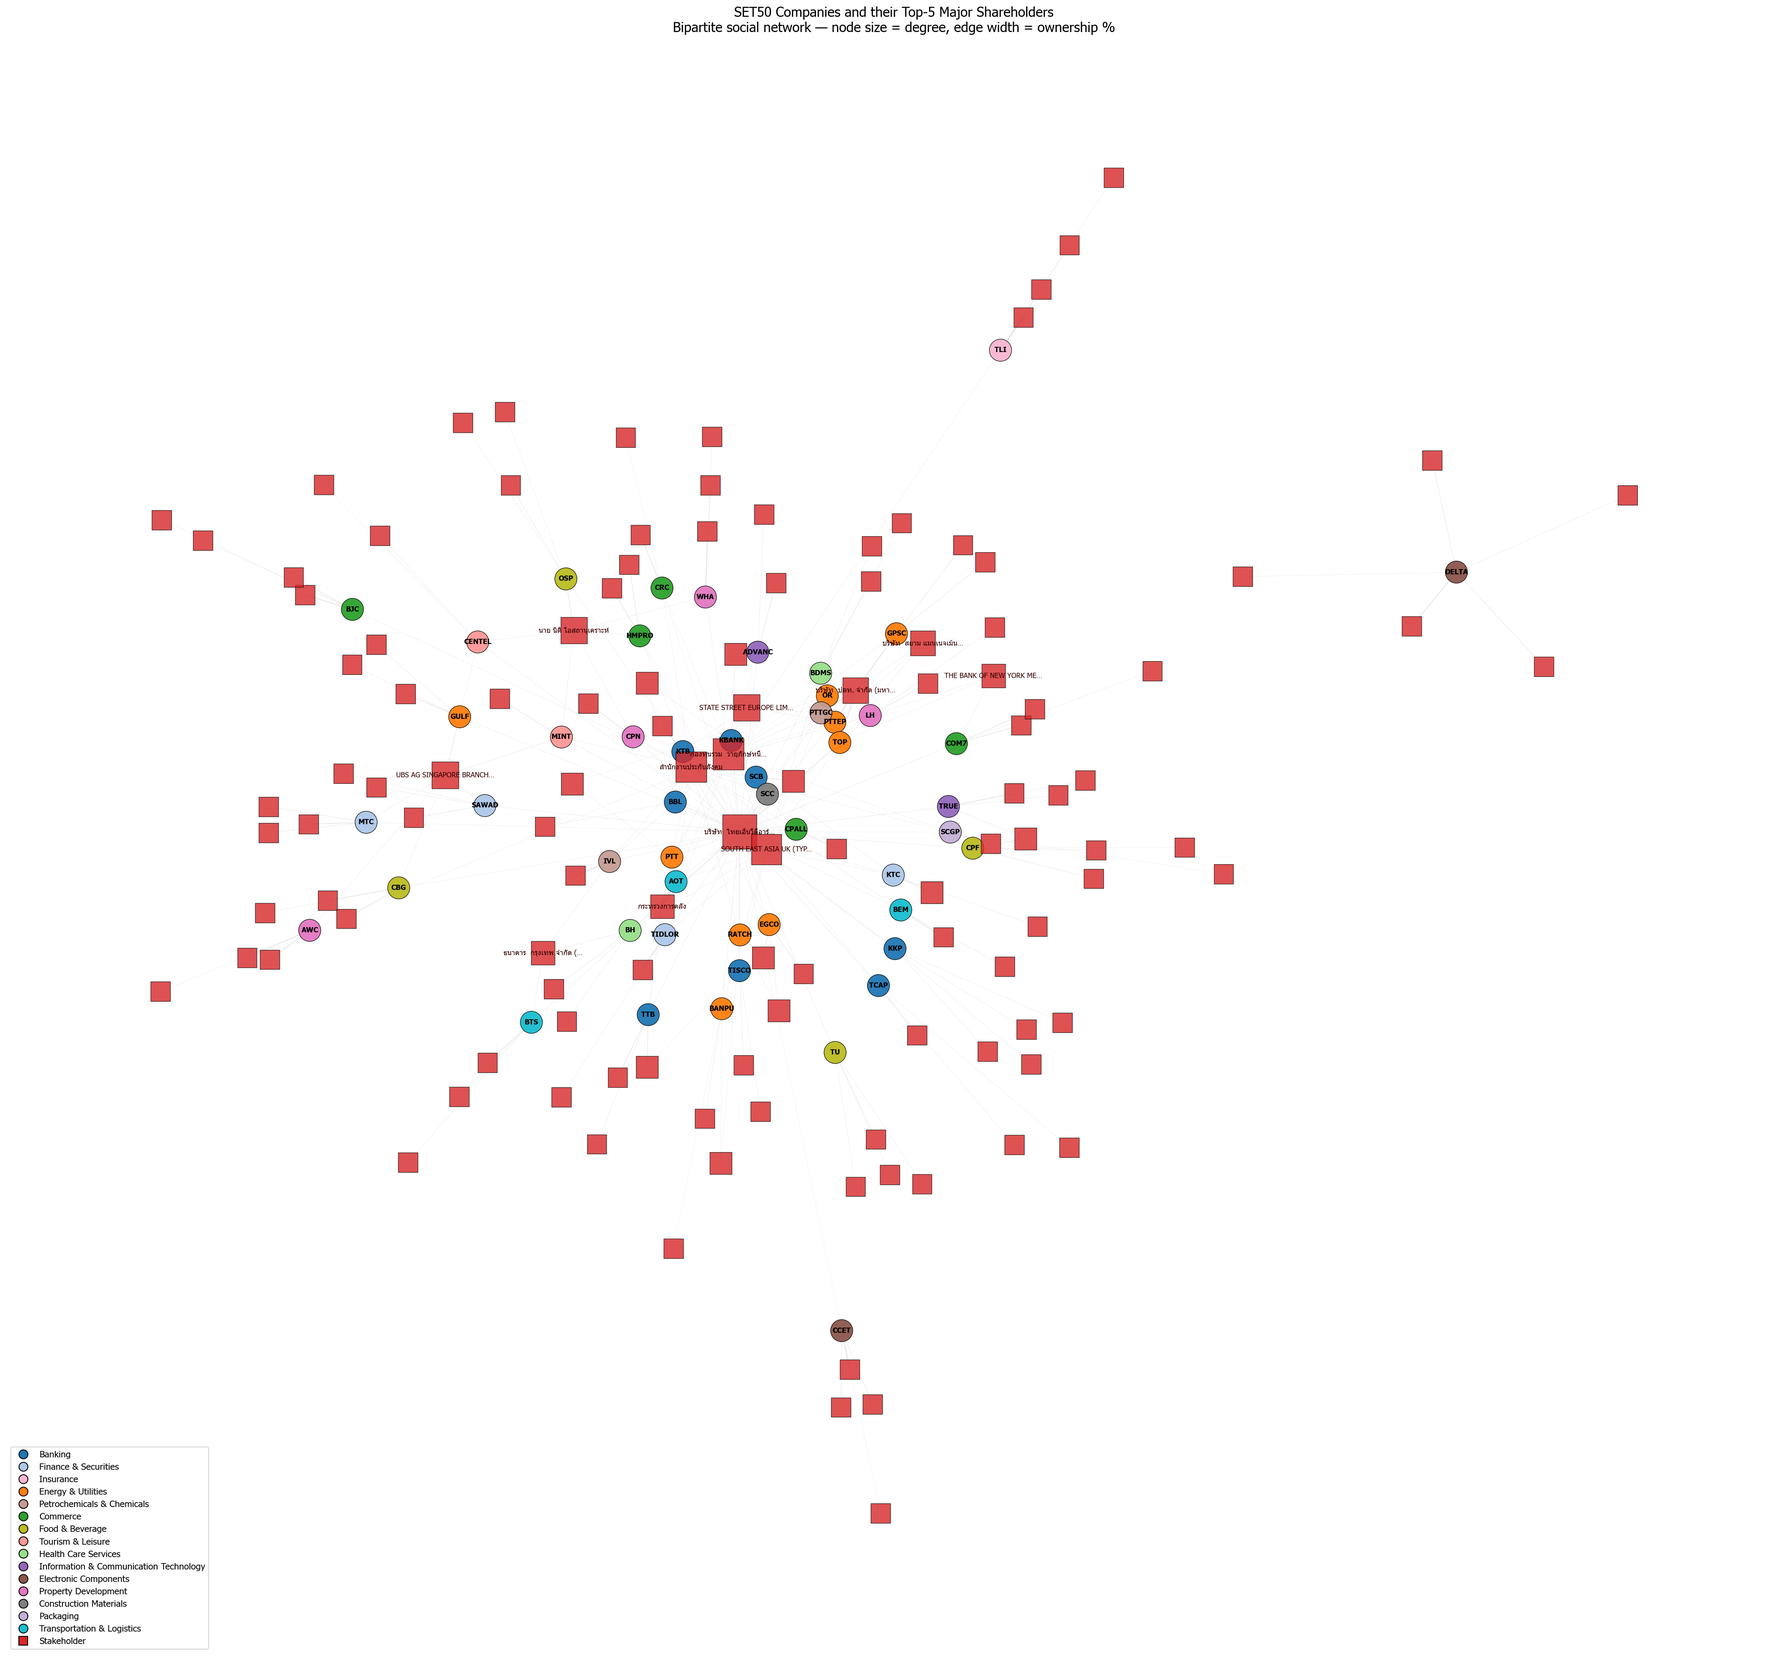
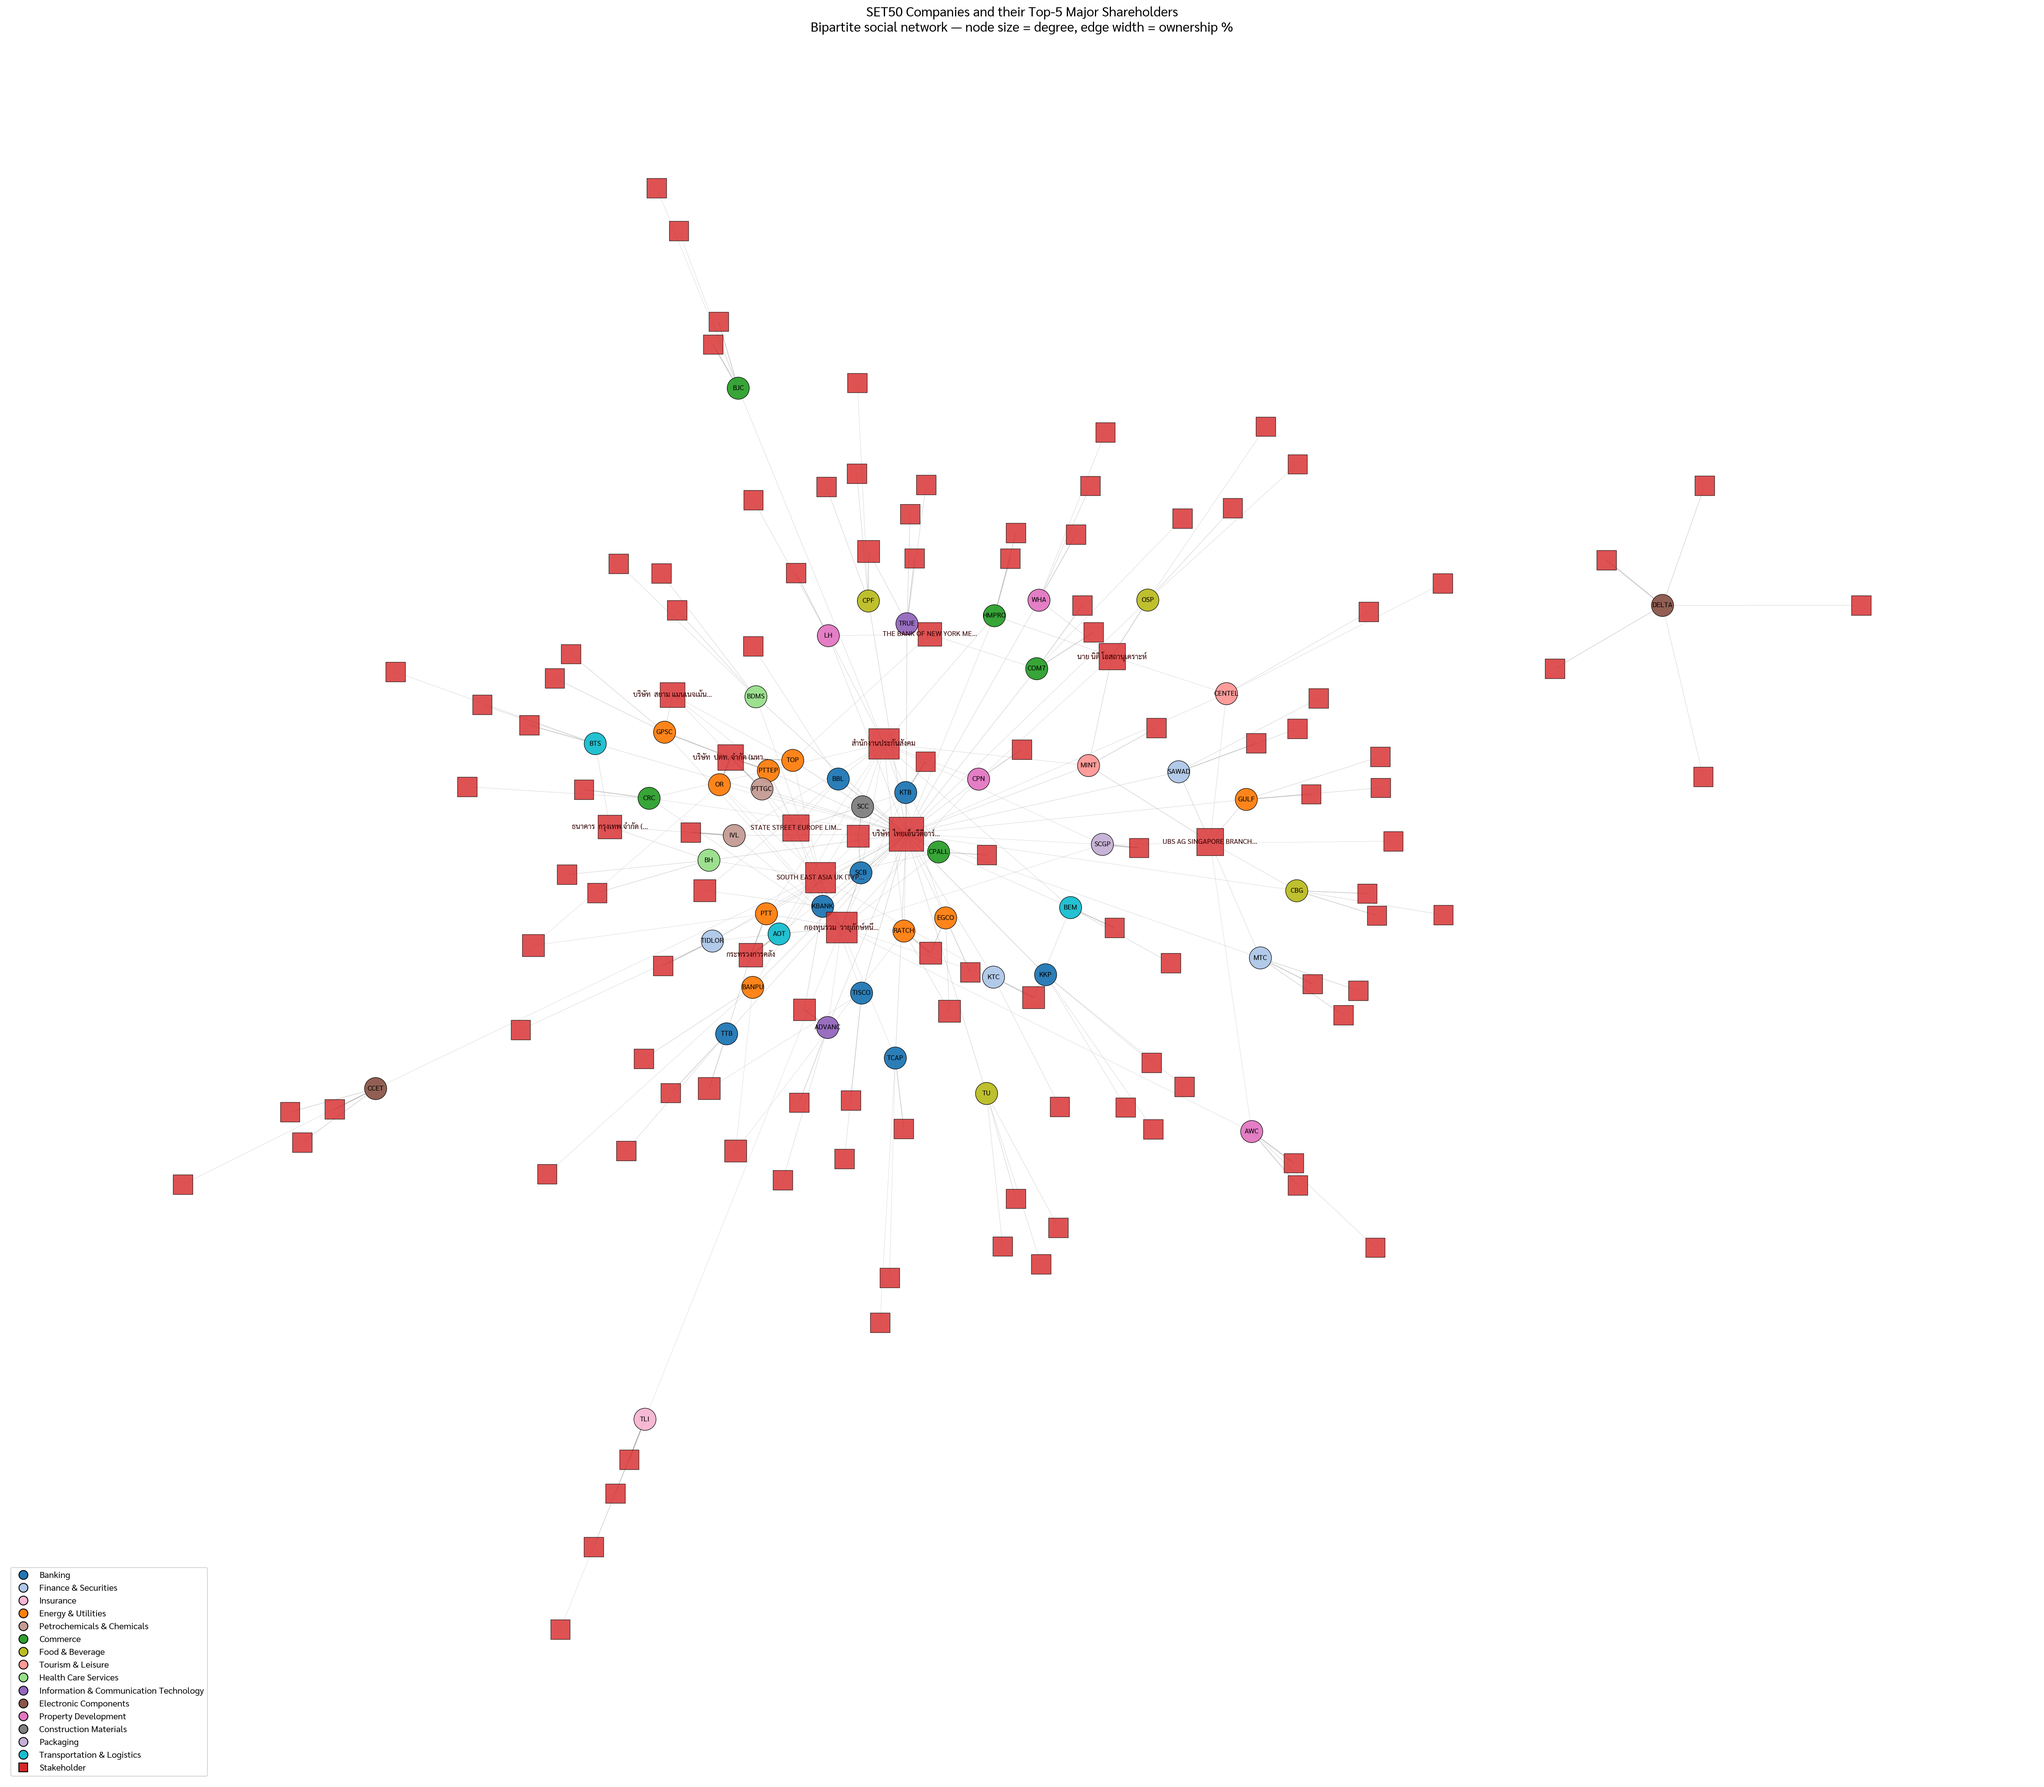
Week1: spread static layout + darker edges for readability

diff --git a/Week1/build_set50_network.py b/Week1/build_set50_network.py
@@ -162,8 +162,9 @@ def _short_label(s: str, max_chars: int = 24) -> str:
 def _layout_components(G: nx.Graph) -> dict:
     """Spring-layout per connected component, with the giant one centred
     and any small components tucked into the right margin (dynamic offset
-    based on the giant's bounding box). Tuned for readability — high `k`
-    and many iterations push leaves outward so hubs don't overlap them.
+    based on the giant's bounding box). Tuned for readability — very
+    high `k` + `scale` so leaves push out far away from hubs and labels
+    don't overlap.
     """
     comps = sorted(nx.connected_components(G), key=len, reverse=True)
 
@@ -171,10 +172,10 @@ def _layout_components(G: nx.Graph) -> dict:
     n_giant = max(giant_sub.number_of_nodes(), 1)
     pos = nx.spring_layout(
         giant_sub,
-        k=3.0 / math.sqrt(n_giant),   # strong repulsion -> wider spread
-        iterations=500,
+        k=6.0 / math.sqrt(n_giant),   # very high repulsion -> wide spread
+        iterations=800,
         seed=42,
-        scale=2.0,
+        scale=4.0,
     )
     if len(comps) == 1:
         return pos
@@ -182,21 +183,21 @@ def _layout_components(G: nx.Graph) -> dict:
     # Anchor extra components to the right of the giant's bounding box
     xs = [p[0] for p in pos.values()]
     ys = [p[1] for p in pos.values()]
-    x_right = max(xs) + 0.6
+    x_right = max(xs) + 1.2
     y_mid = (max(ys) + min(ys)) / 2
-    y_off = y_mid + 0.8
+    y_off = y_mid + 1.5
     for comp in comps[1:]:
         sub = G.subgraph(comp)
-        sub_pos = nx.spring_layout(sub, k=0.5, iterations=300,
-                                   seed=42, scale=0.55)
+        sub_pos = nx.spring_layout(sub, k=0.7, iterations=400,
+                                   seed=42, scale=0.9)
         for n, (x, y) in sub_pos.items():
             pos[n] = (x_right + x, y_off + y)
-        y_off -= 1.6
+        y_off -= 2.6
     return pos
 
 
 def draw_static(G: nx.Graph, out: Path) -> None:
-    fig, ax = plt.subplots(figsize=(28, 26))
+    fig, ax = plt.subplots(figsize=(32, 28))
 
     # Layout: spring per component so disconnected clusters don't drift.
     pos = _layout_components(G)
@@ -206,12 +207,12 @@ def draw_static(G: nx.Graph, out: Path) -> None:
 
     deg = dict(G.degree())
 
-    # Edges — thinner + more transparent so they don't crowd the hubs
+    # Edges — medium grey for easier path-tracing without overwhelming hubs
     weights = [G.edges[e]["weight"] for e in G.edges]
     nx.draw_networkx_edges(
         G, pos, ax=ax,
-        edge_color="#cccccc", alpha=0.35,
-        width=[0.3 + 0.025 * w for w in weights],
+        edge_color="#888888", alpha=0.45,
+        width=[0.25 + 0.02 * w for w in weights],
     )
 
     # Company nodes: coloured by sector. Degree caps at 5 (top-5 holders)

diff --git a/Week1/streamlit_app.py b/Week1/streamlit_app.py
@@ -189,8 +189,8 @@ def _short_label(s: str, max_chars: int = 24) -> str:
 def _layout_components(G: nx.Graph) -> dict:
     """Spring layout per connected component, giant centred + small ones offset.
 
-    Uses high `k` and many iterations to push leaves outward so hubs don't
-    overlap them. Small components are anchored to the right of the giant's
+    Uses very high `k` + `scale` so leaves push out wide and labels don't
+    overlap. Small components are anchored to the right of the giant's
     bounding box dynamically.
     """
     comps = sorted(nx.connected_components(G), key=len, reverse=True)
@@ -198,31 +198,31 @@ def _layout_components(G: nx.Graph) -> dict:
     n_giant = max(giant_sub.number_of_nodes(), 1)
     pos = nx.spring_layout(
         giant_sub,
-        k=3.0 / math.sqrt(n_giant),
-        iterations=500,
+        k=6.0 / math.sqrt(n_giant),
+        iterations=800,
         seed=42,
-        scale=2.0,
+        scale=4.0,
     )
     if len(comps) == 1:
         return pos
 
     xs = [p[0] for p in pos.values()]
     ys = [p[1] for p in pos.values()]
-    x_right = max(xs) + 0.6
+    x_right = max(xs) + 1.2
     y_mid = (max(ys) + min(ys)) / 2
-    y_off = y_mid + 0.8
+    y_off = y_mid + 1.5
     for comp in comps[1:]:
         sub = G.subgraph(comp)
-        sub_pos = nx.spring_layout(sub, k=0.5, iterations=300,
-                                   seed=42, scale=0.55)
+        sub_pos = nx.spring_layout(sub, k=0.7, iterations=400,
+                                   seed=42, scale=0.9)
         for n, (x, y) in sub_pos.items():
             pos[n] = (x_right + x, y_off + y)
-        y_off -= 1.6
+        y_off -= 2.6
     return pos
 
 
 def draw_static(G: nx.Graph):
-    fig, ax = plt.subplots(figsize=(18, 16))
+    fig, ax = plt.subplots(figsize=(22, 18))
     if G.number_of_nodes() == 0:
         ax.text(0.5, 0.5, "No nodes after filtering", ha="center", va="center")
         ax.set_axis_off()
@@ -235,8 +235,8 @@ def draw_static(G: nx.Graph):
     deg = dict(G.degree())
 
     weights = [G.edges[e]["weight"] for e in G.edges]
-    nx.draw_networkx_edges(G, pos, ax=ax, edge_color="#cccccc", alpha=0.35,
-                           width=[0.3 + 0.025 * w for w in weights])
+    nx.draw_networkx_edges(G, pos, ax=ax, edge_color="#888888", alpha=0.45,
+                           width=[0.25 + 0.02 * w for w in weights])
 
     nx.draw_networkx_nodes(
         G, pos, nodelist=companies, ax=ax,
